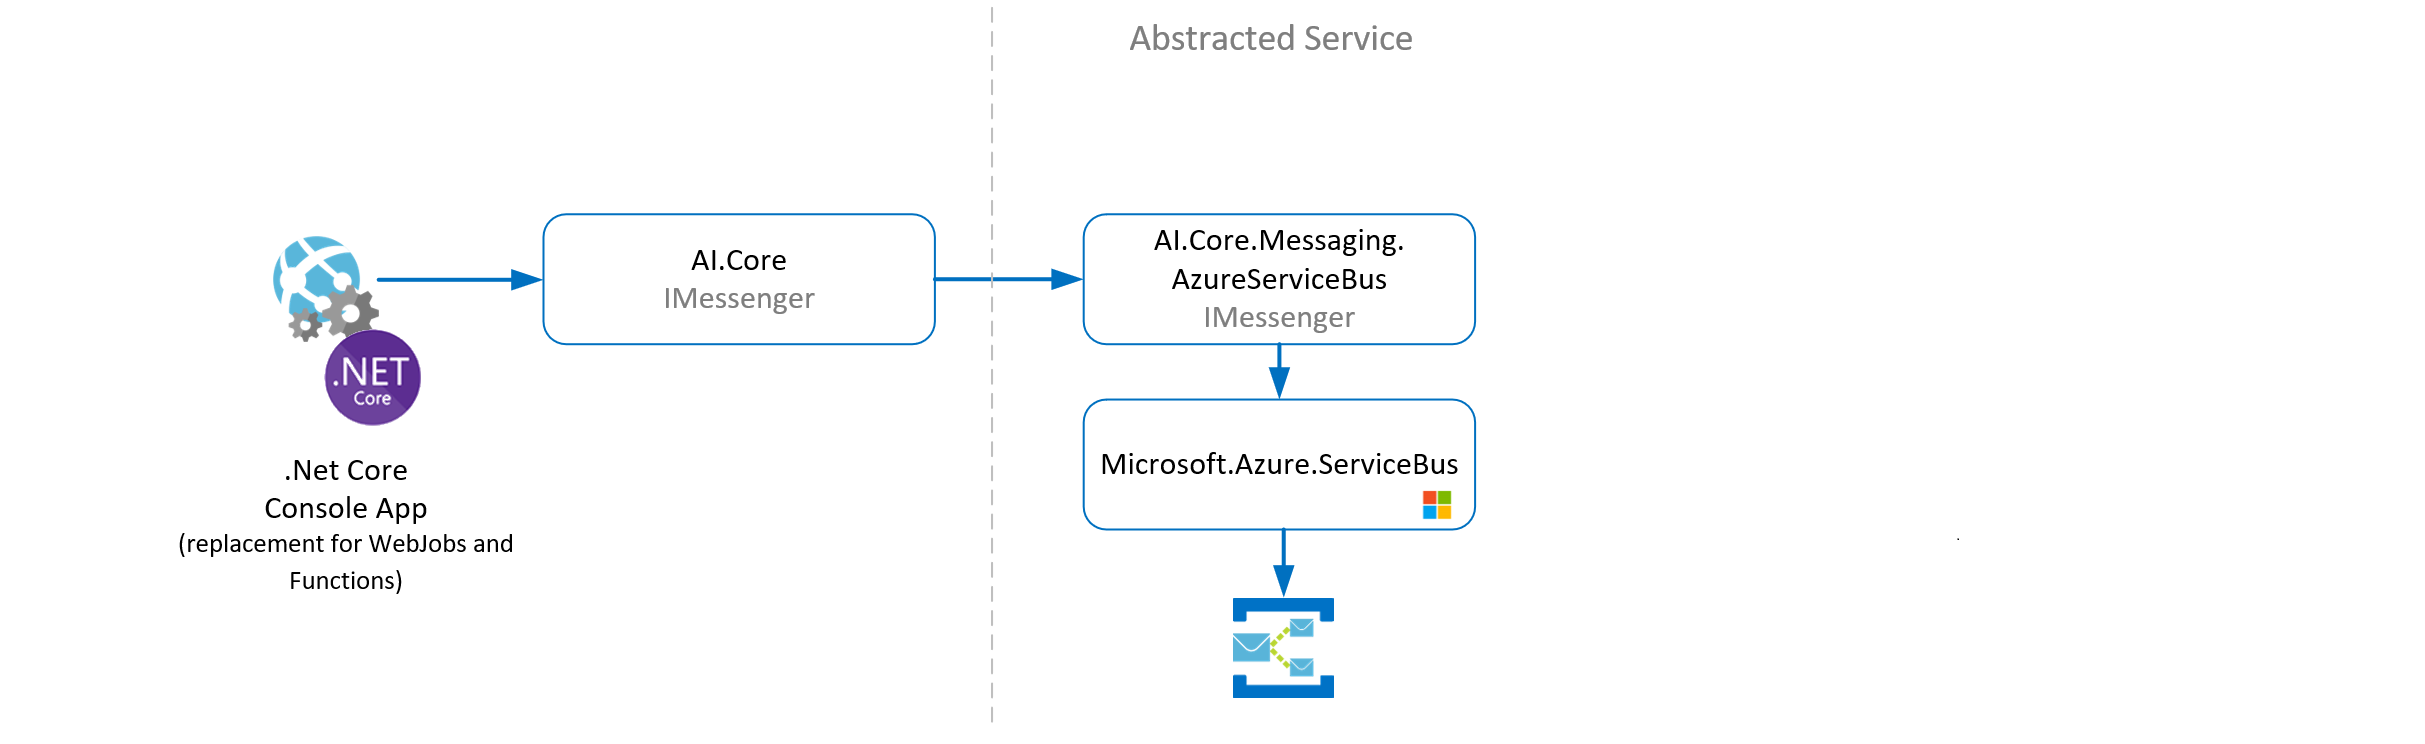
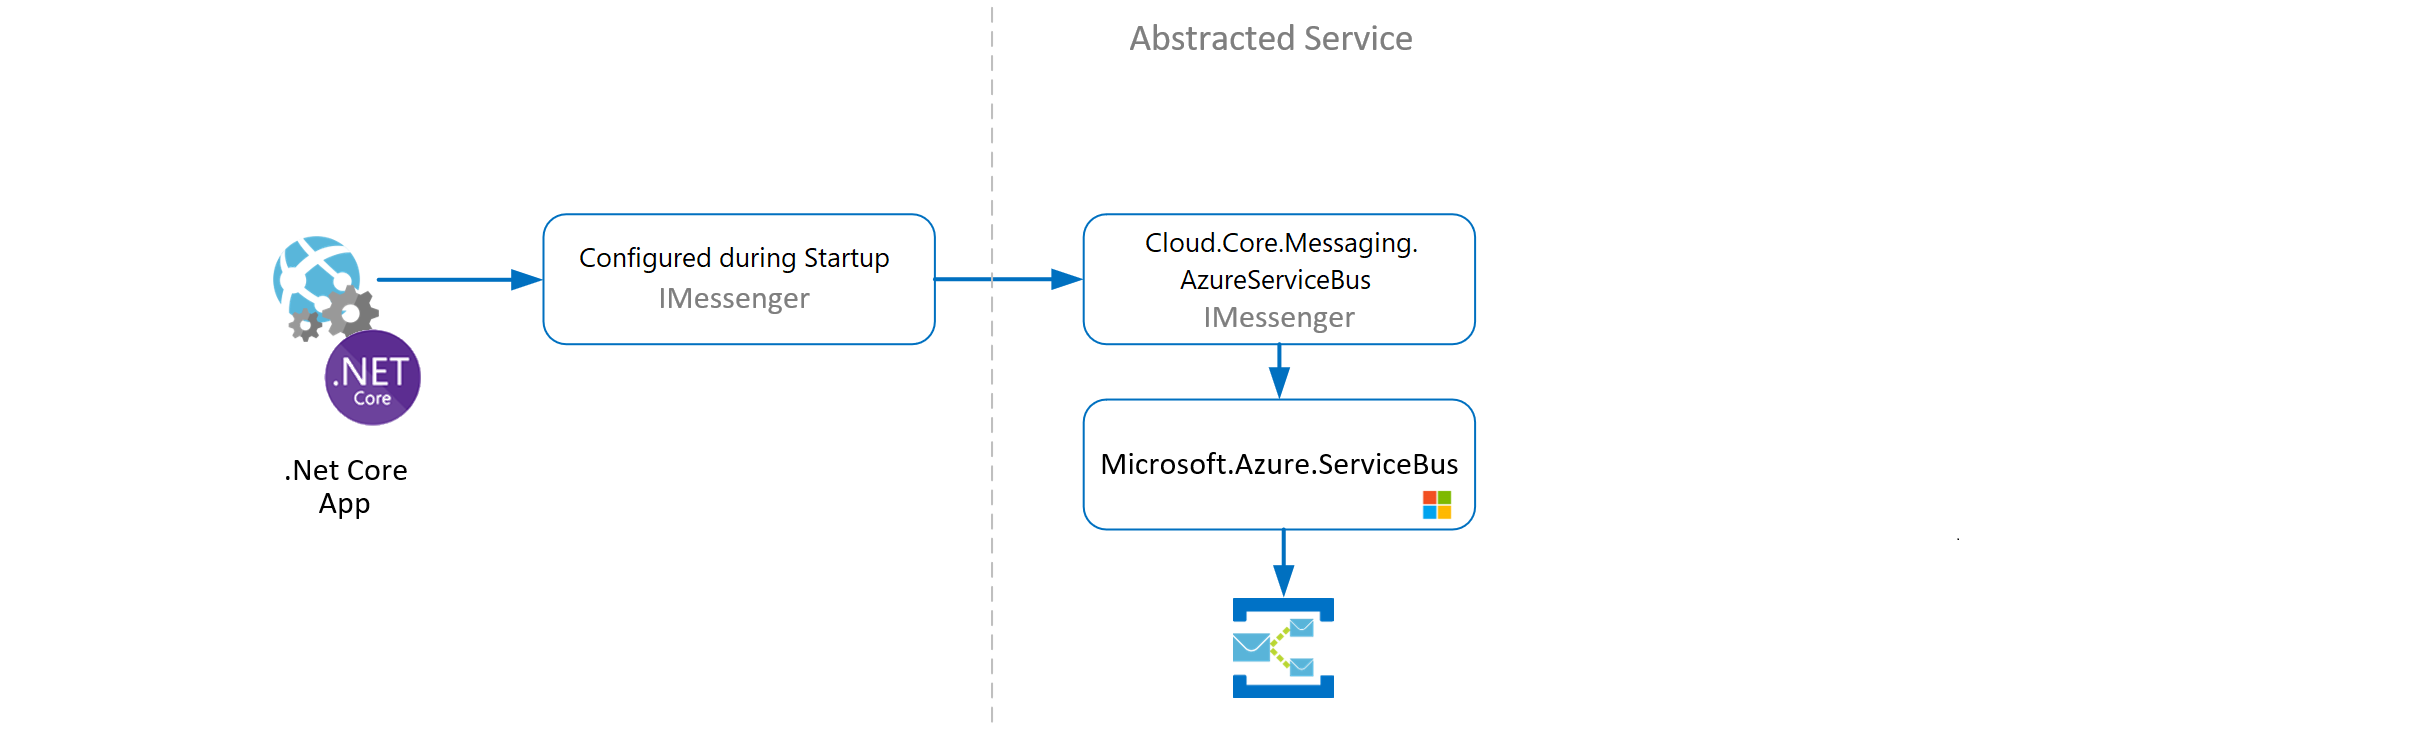
Updated documentation

diff --git a/readme.md b/readme.md
@@ -16,19 +16,12 @@ as an observable collection.  You can read more on the observable pattern here: 
 ## Usage
 
 ### Interface with Core
-The *Cloud.Core* package contains these public interfaces for messaging (chain shown below):
-
-<div style="padding-left:40px">
-
-![Messenger Interfaces](contents/IMessage.png)
+The *Cloud.Core* package contains these public interfaces for messaging (chain shown below)
 
 
 </div>
 
-The main focus of this package being separate from all the other Azure specific packages is to allow for a layer of abstraction in the calling applications.
-The abstraction is shown below:
-
-![Messenger Interfaces](contents/ServiceBus_Abstraction.png)
+The *Cloud.Core* package contains these public interfaces for messaging (chain shown below).  This package implements the releavant interfaces for ServiceBus.  The main focus of this package being separate from all the other Azure specific packages is to allow for a layer of abstraction in the calling applications.
 
 If in the future the calling application was to be run in AWS or Google Cloud, the only thing that would need to be changed in code is the 
 instantiation of IMessage.  Using this package, it would look like this:
@@ -66,7 +59,7 @@ validation, business rules, incorrect data, etc.
 
 The interface has been implemented within this package as follows:
 
-![Messenger Implementation](contents/Implementation.png)
+![Messenger Implementation](contents/ServiceBus_Abstraction.png)
 
 ### Why wrap the ServiceBus API?
 
